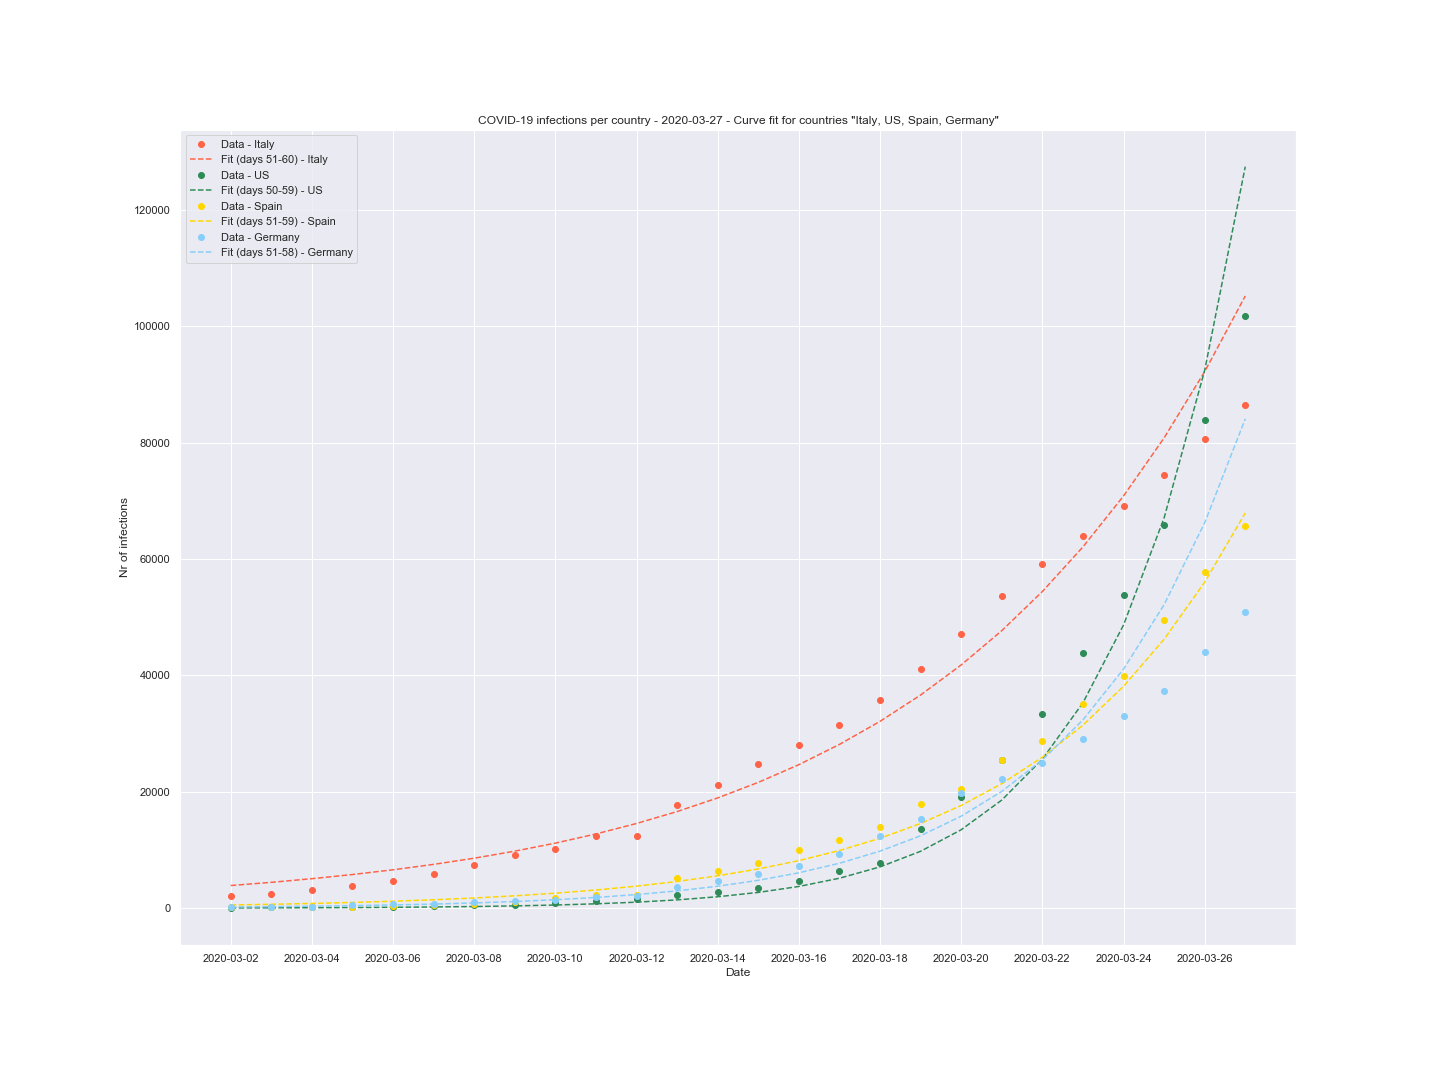
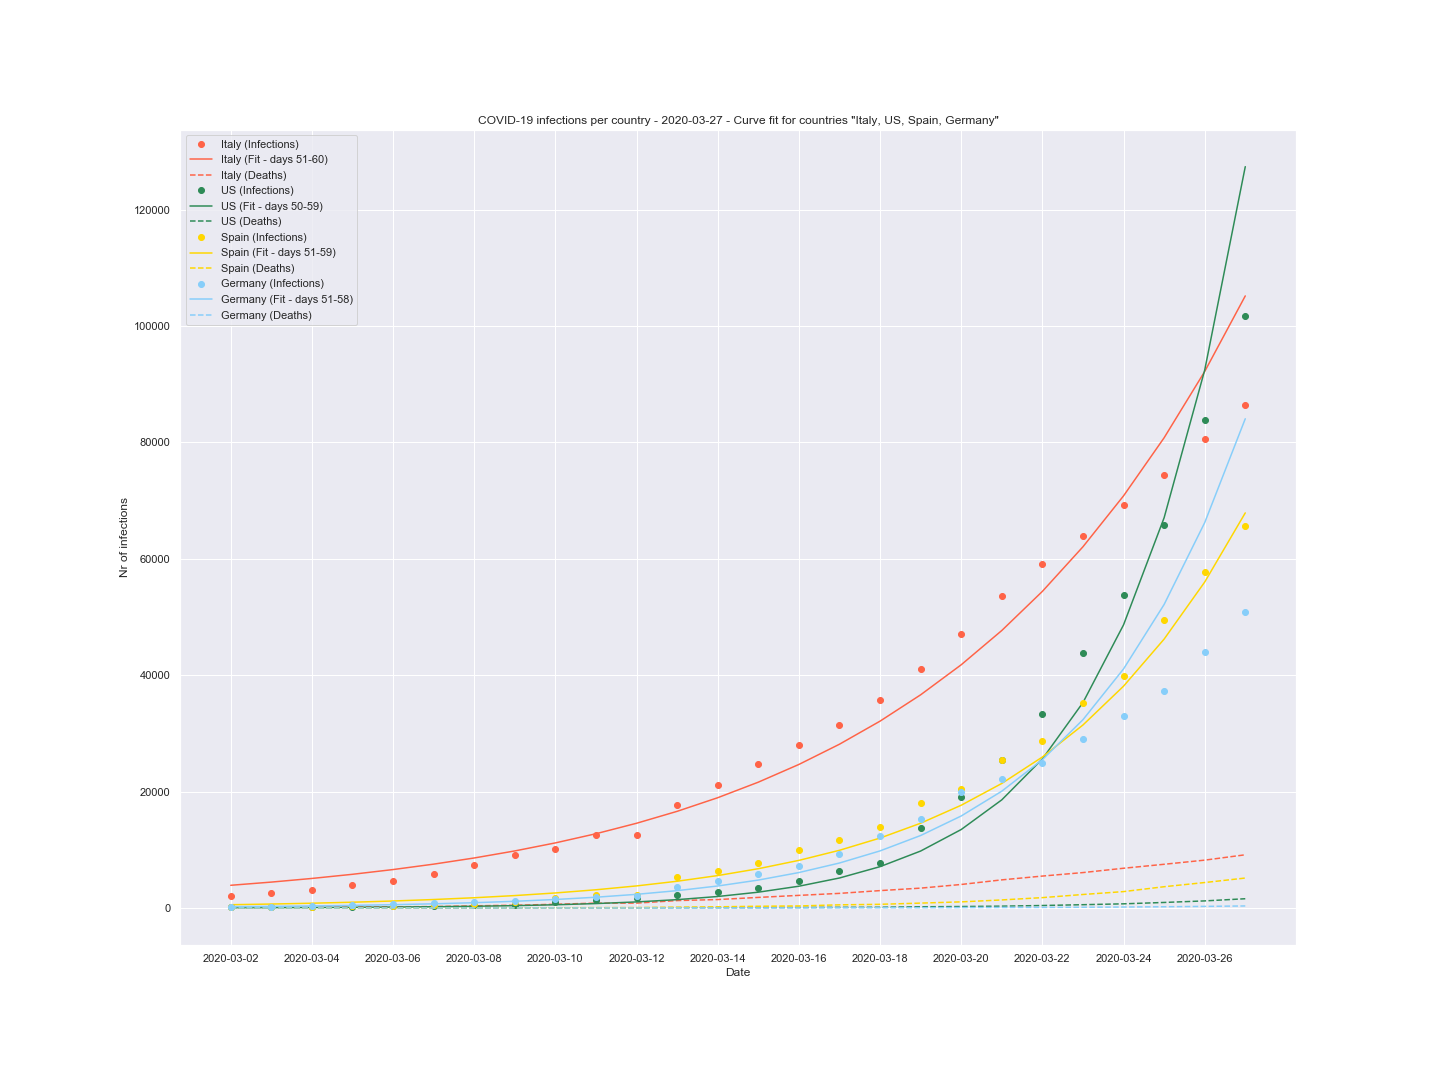
Integrated death numbers into graphs (optionally)

diff --git a/README.md b/README.md
@@ -24,6 +24,7 @@ Jupyter Notebook for "COVID-19: Infections per country"
 * Curve fit for a specific country
 * Multi curve fit for a specific country
 * Curve fit for multiple countries
+* Option for displaying deaths per country inside the graphs
 
 
 ## Example plots
